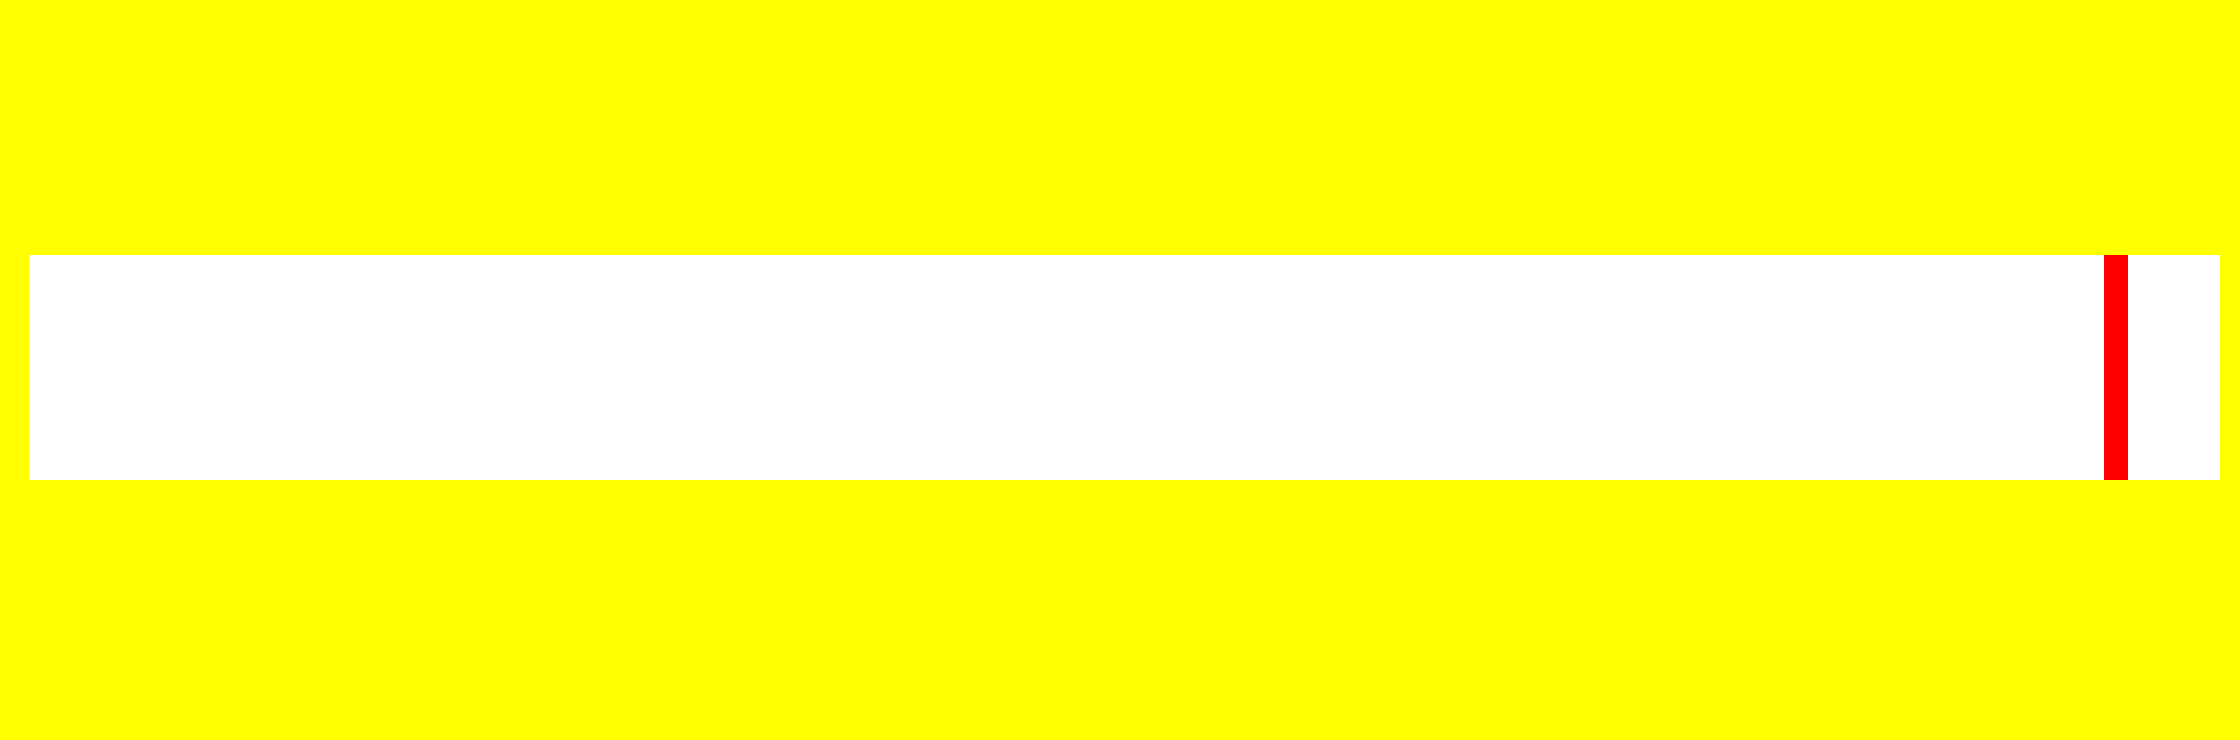
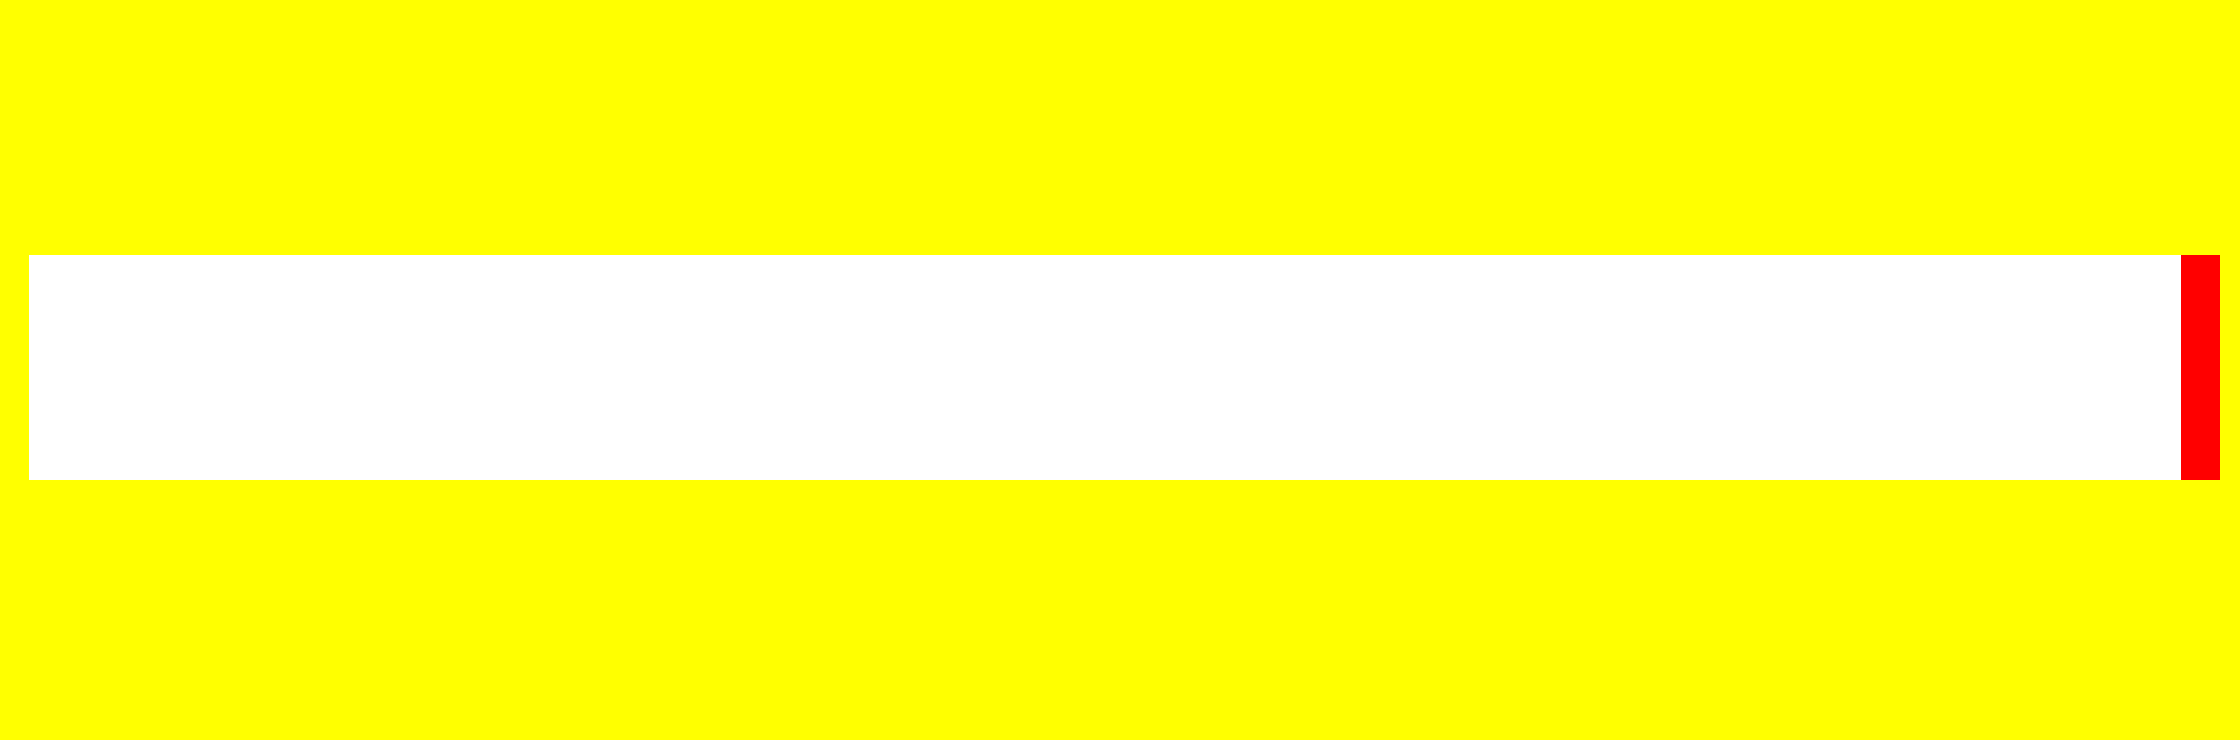
김수원 : CeilLaser - 업데이트

Changed region(s): [[0.9375, 0.3419, 1.0, 0.6527]]

diff --git a/DirectX_KatanaZero/KatanaZero_Core/CeilLaser.cpp b/DirectX_KatanaZero/KatanaZero_Core/CeilLaser.cpp
@@ -59,6 +59,7 @@ void ACeilLaser::StateInit()
 	// State Create
 	State.CreateState("On");
 	State.CreateState("Attack");
+	State.CreateState("Off");
 
 	// State Start
 	State.SetStartFunction("On", [=] 
@@ -66,6 +67,8 @@ void ACeilLaser::StateInit()
 			GetBody()->SetSprite(ImgRes::compo_ceil_laser_on); 
 			Laser->ChangeAnimation(Anim::compo_ceil_laser_idle);
 			Laser->SetScale({ 4.0f, 210.0f, 1.0f });
+			Laser->SetActive(true);
+			HitCol->SetActive(true);
 		}
 	);
 
@@ -75,11 +78,19 @@ void ACeilLaser::StateInit()
 			Laser->ChangeAnimation(Anim::compo_ceil_laser_attack); 
 		}
 	);
+
+	State.SetStartFunction("Off", [=]
+		{
+			GetBody()->SetSprite(ImgRes::compo_ceil_laser_off);
+			Laser->SetActive(false);
+			HitCol->SetActive(false);
+		}
+	);
 	
 	// State Update
 	State.SetUpdateFunction("On", [=](float _DeltaTime) 
 		{
-			HitCol->CollisionEnter(EColOrder::PlayerBody, [=](std::shared_ptr<UCollision> _Other)
+			HitCol->CollisionStay(EColOrder::PlayerBody, [=](std::shared_ptr<UCollision> _Other)
 				{
 					APlayerBase* Player = dynamic_cast<APlayerBase*>(_Other->GetActor());
 					Player->HitByEnemy();
@@ -95,6 +106,8 @@ void ACeilLaser::StateInit()
 			Laser->AddScale({ -40.0f * _DeltaTime, 0.0f, 0.0f }); 
 		}
 	);
+
+	State.SetUpdateFunction("Off", [=](float _DeltaTime) {});
 
 	// State End
 

diff --git a/DirectX_KatanaZero/KatanaZero_Core/Factory_003.cpp b/DirectX_KatanaZero/KatanaZero_Core/Factory_003.cpp
@@ -42,6 +42,12 @@ void AFactory_003::LevelStart(ULevel* _PrevLevel)
 	Player->SetActorLocation({ 175.0f, 300.0f, 0.0f });
 
 	SpawnRecComponent<ACeilLaser>("CeilLaser", { 368.0f, 478.0f, 0.0f}, EEngineDir::Left, "On");
+	SpawnRecComponent<ACeilLaser>("CeilLaser", { 1343.0f, 478.0f, 0.0f}, EEngineDir::Left, "On");
+	SpawnRecComponent<ACeilLaser>("CeilLaser", { 1905.0f, 478.0f, 0.0f}, EEngineDir::Left, "On");
+	SpawnRecComponent<ACeilLaser>("CeilLaser", { 1965.0f, 478.0f, 0.0f}, EEngineDir::Left, "On");
+	SpawnRecComponent<ACeilLaser>("CeilLaser", { 2025.0f, 478.0f, 0.0f}, EEngineDir::Left, "On");
+	SpawnRecComponent<ACeilLaser>("CeilLaser", { 2085.0f, 478.0f, 0.0f}, EEngineDir::Left, "On");
+	SpawnRecComponent<ACeilLaser>("CeilLaser", { 2145.0f, 478.0f, 0.0f}, EEngineDir::Left, "On");
 }
 
 void AFactory_003::LevelEnd(ULevel* _NextLevel)

diff --git a/DirectX_KatanaZero/KatanaZero_Core/DefaultPlayer.cpp b/DirectX_KatanaZero/KatanaZero_Core/DefaultPlayer.cpp
@@ -25,7 +25,7 @@ void ADefaultPlayer::CollisionInit()
 	Super::CollisionInit();
 
 	FVector BodyPos	= { 0.0f, 40.0f, 0.0f };
-	FVector BodyScale = { 50.0f, 80.0f, 1.0f };
+	FVector BodyScale = { 60.0f, 80.0f, 1.0f };
 	BodyCol->SetPosition(BodyPos);
 	BodyCol->SetScale(BodyScale);
 	BodyCol->SetActive(true);

diff --git a/DirectX_KatanaZero/KatanaZero_Core/Constant.h b/DirectX_KatanaZero/KatanaZero_Core/Constant.h
@@ -172,7 +172,7 @@ namespace Const
 
 	const float player_run_accx = 1000.0f;
 
-	const float player_roll_speedx = 700.0f;
+	const float player_roll_speedx = 550.0f;
 
 	const float player_jump_accx = 1000.0f;
 	const float player_jump_start_speedx = player_max_speedx * 0.75f;

diff --git a/DirectX_KatanaZero/KatanaZero_Core/PlayerBase_State.cpp b/DirectX_KatanaZero/KatanaZero_Core/PlayerBase_State.cpp
@@ -726,6 +726,9 @@ void APlayerBase::DeadStart()
 	}
 
 	AddActorLocation({ 0.0f, 10.0f, 0.0f });
+
+	FrontCol->SetActive(false);
+	BodyCol->SetActive(false);
 }
 
 void APlayerBase::Dead(float _DeltaTime)
